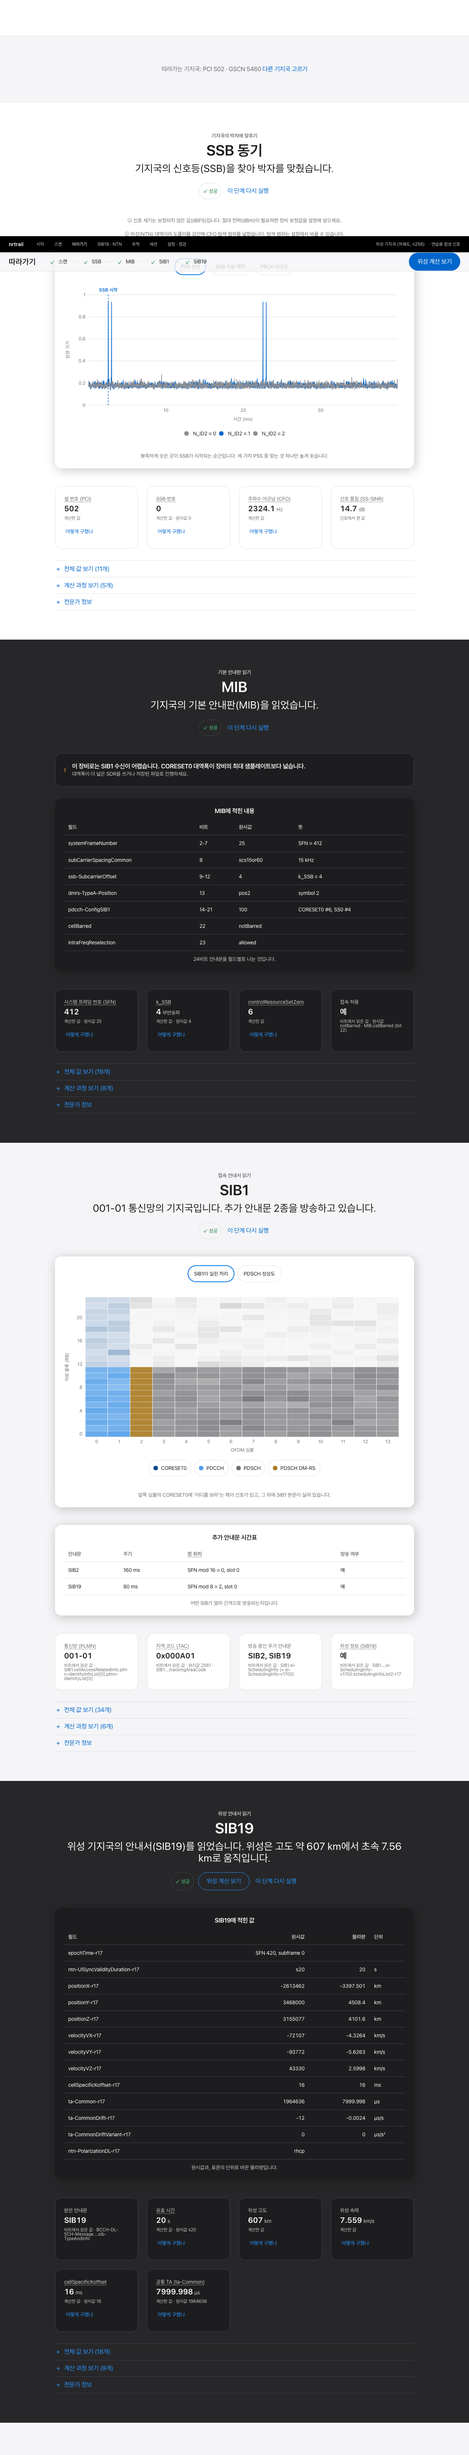
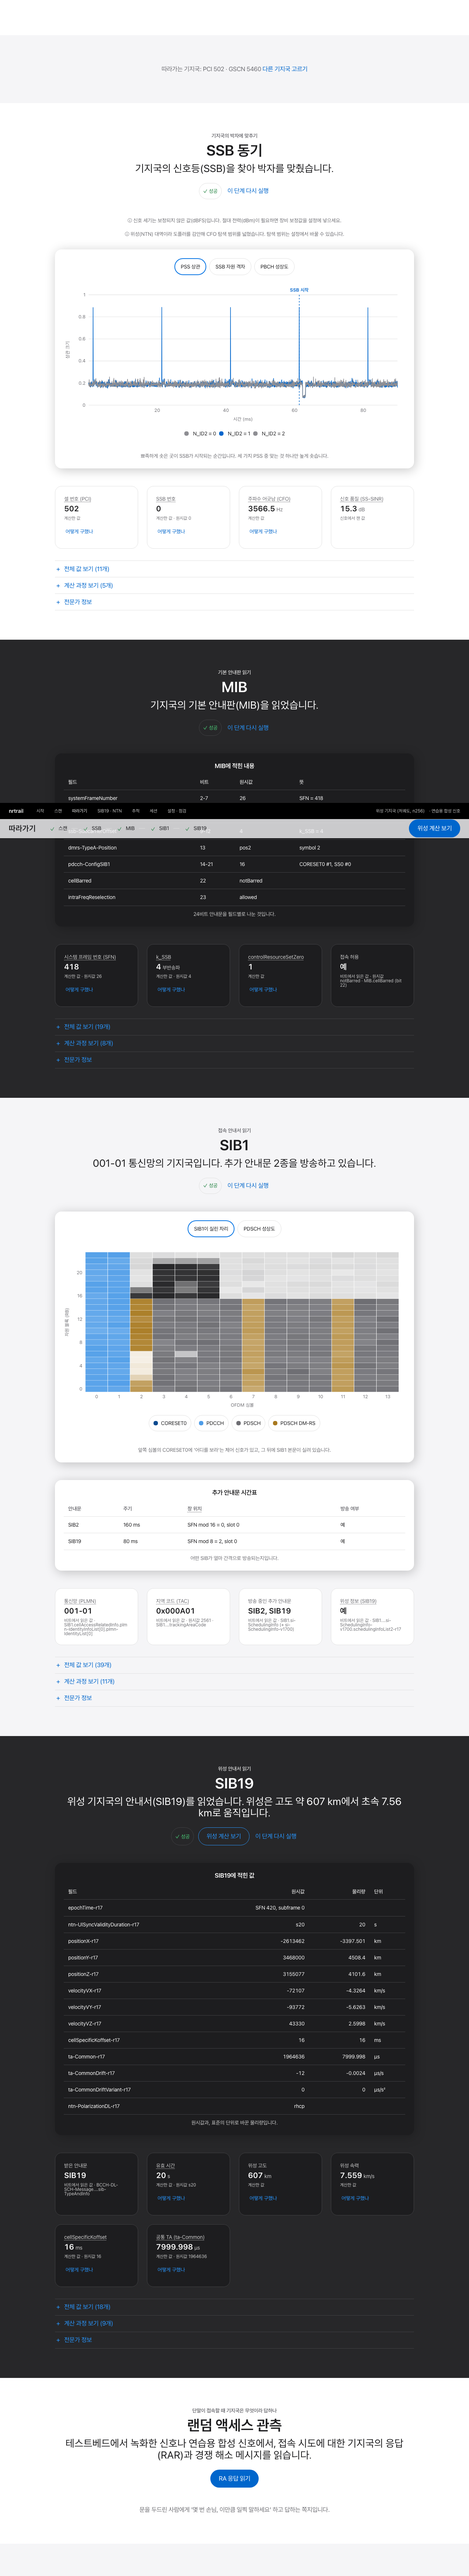
feat(M7,M8,M10): 추적·장비 능력·RA 관측을 화면에 연결
- 추적: 되풀이 재생 안내, 궤도로 설명되지 않는 변경 표시. 임시 예시(local/) 제거
- 시작 화면: 고른 장비가 단계별로 무엇을 할 수 있는지(가능/제한적/불가) 표시
- 따라가기: 테스트베드 전용 RA 관측 구역(허용되지 않는 입력에서는 이유와 함께 잠김)
- 종단 시험 7개(서버 연결), 화면 전용 모드 6개 + 건너뜀 1개

Changed region(s): [[0.0, 0.1873, 1.0, 0.9991], [0.0, 0.0312, 1.0, 0.2186], [0.5312, 0.843, 0.5625, 0.8742]]

diff --git a/web/src/api/mock.ts b/web/src/api/mock.ts
@@ -20,11 +20,8 @@ import type {
 
 const files = import.meta.glob("../mock/fixtures/**/*.json", { eager: true, import: "default" }) as Record<string, unknown>;
 
-// 서버가 아직 내보내지 않는 것(NTN·추적)은 mock/local/ 의 임시 예시로 채운다. fixtures/ 에 같은 파일이 생기면 그쪽이 우선한다.
-const local = import.meta.glob("../mock/local/**/*.json", { eager: true, import: "default" }) as Record<string, unknown>;
-
 function fixture<T>(path: string): T | undefined {
-  return (files[`../mock/fixtures/${path}`] ?? local[`../mock/local/${path}`]) as T | undefined;
+  return files[`../mock/fixtures/${path}`] as T | undefined;
 }
 
 const STEP_MS = Number(import.meta.env.VITE_MOCK_STEP_MS ?? 350);
@@ -67,7 +64,7 @@ function stageStates(m: MockSession, running?: string): StageState[] {
       state,
       last_status: r?.status,
       runs: m.attempts[d.id] ?? 0,
-      locked_reason: state === "locked" ? d.locked_reason : undefined,
+      locked_reason: state === "locked" ? (d.locked_reason ?? undefined) : undefined,
     };
   });
 }
@@ -122,7 +119,7 @@ export const mockApi: Api = {
       results: {},
       listeners: new Set(),
       attempts: {},
-      track: { running: false, interval_s: 5, series: [], points: [] },
+      track: { running: false, interval_s: 5, series: [], points: [], replay: true },
     };
     m.session.stages = stageStates(m);
     sessions.set(id, m);
@@ -138,7 +135,7 @@ export const mockApi: Api = {
     m.attempts[stage] = (m.attempts[stage] ?? 0) + 1;
     // 이 단계를 다시 돌리면 뒤 단계 결과는 더 이상 맞지 않는다.
     const order = pipelineDef().stages.map((s) => s.id);
-    for (const later of order.slice(order.indexOf(stage))) delete m.results[later];
+    if (order.includes(stage)) for (const later of order.slice(order.indexOf(stage))) delete m.results[later];
     m.session = { ...m.session, stages: stageStates(m, stage) };
     void (async () => {
       emit(m, { type: "job.started", job_id, stage });
@@ -179,7 +176,7 @@ export const mockApi: Api = {
     const m = need(id);
     const data = fixture<TrackData>(`${m.session.source.scenario ?? "ntn-leo-n256"}/track.json`);
     const all = data?.points ?? [];
-    m.track = { running: true, interval_s, series: data?.series ?? [], points: all.slice(0, Math.min(3, all.length)) };
+    m.track = { running: true, interval_s, series: data?.series ?? [], points: all.slice(0, Math.min(3, all.length)), replay: true };
     m.session = { ...m.session, tracking: true };
     m.timer = setInterval(() => {
       if (m.track.points.length < all.length) m.track.points = all.slice(0, m.track.points.length + 1);

diff --git a/web/src/screens/StartScreen.tsx b/web/src/screens/StartScreen.tsx
@@ -11,7 +11,7 @@ const DOCTOR_LEVEL = { ok: "ok", warn: "warn", missing: "error" } as const;
 
 /** 1. 시작: 입력 소스 선택(연습 / 파일 / 장비), 장비 상태, 최근 세션. */
 export function StartScreen() {
-  const { api, start } = useStore();
+  const { api, start, stageDef } = useStore();
   const [scenarios, setScenarios] = useState<Scenario[]>([]);
   const [scenario, setScenario] = useState<string>("");
   const [devices, setDevices] = useState<DeviceInfo[]>([]);
@@ -124,9 +124,24 @@ export function StartScreen() {
                     </Chip>
                   ))}
                 </div>
+                {devices
+                  .filter((d) => d.id === device)
+                  .map((d) => (
+                    <div key={d.id} className="t-caption" data-testid="device-capability">
+                      <p className="muted">{d.note}</p>
+                      <div className="row">
+                        {Object.entries(d.stages ?? {}).map(([stage, level]) => (
+                          <Badge key={stage} level={level === "ok" ? "ok" : level === "limited" ? "warn" : "error"}>
+                            {stageDef(stage)?.label ?? stage} · {t(`device.stage.${level}`)}
+                          </Badge>
+                        ))}
+                      </div>
+                    </div>
+                  ))}
                 <div>
                   <Button
                     variant="secondary"
+                    data-testid="start-device"
                     disabled={busy || !device}
                     onClick={() => void begin(() => start({ kind: "device", device, device_label: devices.find((d) => d.id === device)?.label }))}
                   >

diff --git a/web/src/components/StageSection.tsx b/web/src/components/StageSection.tsx
@@ -20,6 +20,8 @@ export function StageSection({
   onSelectRow,
   extraAction,
   runParams,
+  stateOverride,
+  lockedText,
 }: {
   def: StageDef;
   tone: "light" | "parchment" | "dark";
@@ -28,11 +30,14 @@ export function StageSection({
   extraAction?: React.ReactNode;
   /** 실행 버튼을 누를 때 함께 보낼 값 (예: 스캔할 대역) */
   runParams?: Record<string, unknown>;
+  /** 사슬 밖의 단계(예: RA 관측)는 서버가 상태를 주지 않으므로 화면이 정한다 */
+  stateOverride?: "next" | "locked";
+  lockedText?: string;
 }) {
   const { session, results, job, run, stageState } = useStore();
   const [highlight, setHighlight] = useState<string | null>(null);
   const derivFold = useRef<HTMLDetailsElement>(null);
-  const state = stageState(def.id)?.state ?? "locked";
+  const state = stateOverride ?? stageState(def.id)?.state ?? "locked";
   const result = results[def.id];
   const running = job?.stage === def.id;
   const busy = job !== null;
@@ -57,7 +62,7 @@ export function StageSection({
         <TileHead eyebrow={def.question} title={def.title} lead={def.intro}>
           <span className="badge t-caption" data-level="info">
             <LockIcon />
-            {t("chain.state.locked")} · {stageState(def.id)?.locked_reason ?? def.locked_reason ?? ""}
+            {t("chain.state.locked")} · {lockedText ?? stageState(def.id)?.locked_reason ?? def.locked_reason ?? ""}
           </span>
         </TileHead>
       </Tile>

diff --git a/web/src/api/types.ts b/web/src/api/types.ts
@@ -8,11 +8,13 @@ export interface StageDef {
   requires: string[];
   label: string;
   title: string;
-  question?: string;
-  intro?: string;
-  analogy?: string;
-  button?: string;
-  locked_reason?: string;
+  question?: string | null;
+  intro?: string | null;
+  analogy?: string | null;
+  button?: string | null;
+  locked_reason?: string | null;
+  /** 이 입력 소스로는 쓸 수 없을 때 보여줄 문구 (테스트베드 전용 기능) */
+  not_allowed?: string | null;
   spec_refs?: string[];
   progress?: Record<string, string>;
   /** 값 묶음 키 → 소제목 */
@@ -60,6 +62,8 @@ export interface DeviceInfo {
   bits?: number;
   stages?: Record<string, "ok" | "limited" | "no">;
   note?: string;
+  clock_ppm?: number;
+  capability?: string;
 }
 
 export interface Settings {
@@ -89,6 +93,8 @@ export interface TrackChange {
   label: string;
   before: string;
   after: string;
+  /** 궤도 전파로 설명되지 않는 변화 */
+  anomaly?: boolean;
 }
 
 export interface TrackData {
@@ -96,6 +102,8 @@ export interface TrackData {
   interval_s: number;
   series: { key: string; label: string; unit: string }[];
   points: TrackPoint[];
+  /** 저장 파일·합성 신호를 되풀이해 읽는 중(측정값은 같고 궤도 계산값만 변함) */
+  replay?: boolean;
 }
 
 export interface PhoneCell {

diff --git a/web/src/screens/FollowScreens.tsx b/web/src/screens/FollowScreens.tsx
@@ -71,6 +71,10 @@ export function FollowScreen() {
   const { session, pipeline, results } = useStore();
   if (!session) return null;
   const stages = pipeline.stages.filter((s) => s.id !== "scan");
+  // 랜덤 액세스 관측은 테스트베드 전용: 연습용 합성 신호나 테스트베드로 표시한 파일에서만 열린다.
+  const ra = pipeline.views?.find((v) => v.id === "ra");
+  const raAllowed = session.source.kind === "synthetic" || (session.source.kind === "file" && session.source.testbed === true);
+  const sib1Done = results.sib1 !== undefined && results.sib1.status !== "fail";
   const scan = results.scan;
   const found = (scan?.next_inputs.cells as { gscn: number; pci: number }[] | undefined) ?? [];
   const cell = session.selected_cell ?? found.find((c) => c.gscn === scan?.next_inputs.selected_gscn) ?? found[0];
@@ -114,6 +118,14 @@ export function FollowScreen() {
           }
         />
       ))}
+      {ra && (
+        <StageSection
+          def={ra}
+          tone={TONES[stages.length % TONES.length] ?? "light"}
+          stateOverride={raAllowed && sib1Done ? "next" : "locked"}
+          lockedText={raAllowed ? (ra.locked_reason ?? "") : (ra.not_allowed ?? "")}
+        />
+      )}
       <div className="page-end" />
     </>
   );

diff --git a/web/src/screens/NtnTrackScreens.tsx b/web/src/screens/NtnTrackScreens.tsx
@@ -233,6 +233,7 @@ export function TrackScreen() {
             ))}
           </div>
           {data?.running && <Badge level="ok">{t("track.running", { n: data.points.length })}</Badge>}
+          {data?.replay && (data?.points.length ?? 0) > 0 && <Badge level="info">{t("track.replay")}</Badge>}
         </TileHead>
         {plots.length > 0 && (data?.points.length ?? 0) > 0 ? <Figure plots={plots} /> : <Empty>{t("track.empty")}</Empty>}
         {(data?.points.length ?? 0) > 0 && (
@@ -264,7 +265,9 @@ export function TrackScreen() {
                 {changes.map((c, i) => (
                   <tr key={i}>
                     <td className="right num">{c.t_s}</td>
-                    <td>{c.label}</td>
+                    <td>
+                      {c.label} {c.anomaly && <Badge level="warn">{t("track.changes.anomaly")}</Badge>}
+                    </td>
                     <td className="mono">{c.before}</td>
                     <td className="mono">{c.after}</td>
                   </tr>

diff --git a/web/src/state/store.tsx b/web/src/state/store.tsx
@@ -156,7 +156,7 @@ export function StoreProvider({ children, api = defaultApi }: { children: ReactN
         if (sessionId.current === id) return;
         const s = await api.getSession(id);
         const pairs = await Promise.all(
-          [...pipeline.stages.map((d) => d.id)].map(async (stage) => [stage, await api.result(id, stage)] as const),
+          [...pipeline.stages.map((d) => d.id), ...(pipeline.views ?? []).filter((v) => v.id === "ra").map((v) => v.id)].map(async (stage) => [stage, await api.result(id, stage)] as const),
         );
         attach(s, Object.fromEntries(pairs.filter((p): p is readonly [string, StageResult] => p[1] !== null)));
       },
